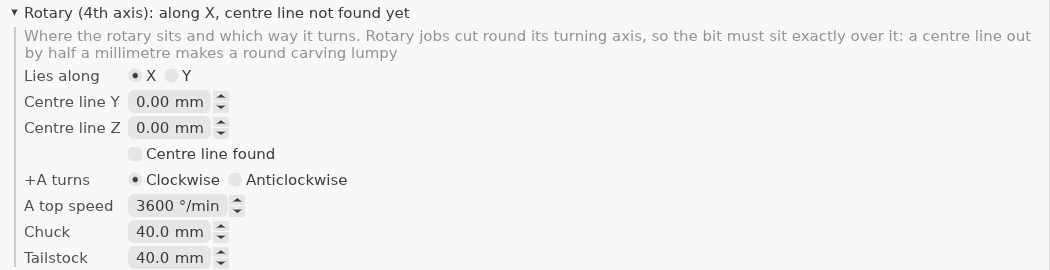
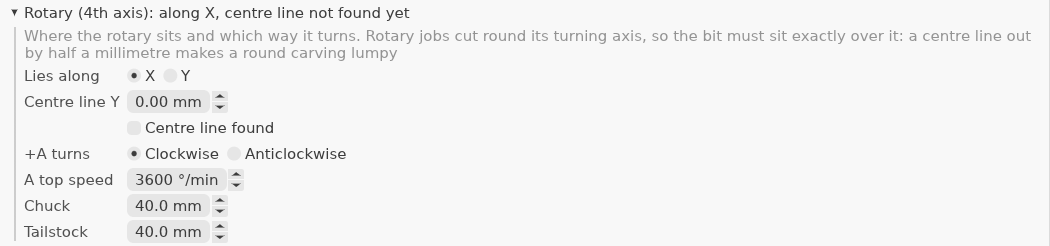
fix: drop Centre line Z (Job Setup's Z zero already says it)
The rotary's centre height comes from where the job zeroes Z (on the axis
or on top of the cylinder), so a second box for it could only disagree.

Claude-Session: https://claude.ai/code/session_01Uqr4BHzmagQu1FgiQuYC1m

diff --git a/crates/machines/src/manager.rs b/crates/machines/src/manager.rs
@@ -612,44 +612,30 @@ fn rotary(ui: &mut egui::Ui, machine: &mut Machine) {
                     });
                     ui.end_row();
                     let across = if axis.along == Along::X { "Y" } else { "X" };
-                    let rows = [
-                        (
-                            format!("Centre line {across}"),
-                            &mut axis.centre_across,
-                            format!(
-                                "From work zero across to the turning axis, in {across}. 0 when \
-                                 you zero {across} on the axis, as is usual"
-                            ),
-                        ),
-                        (
-                            "Centre line Z".to_owned(),
-                            &mut axis.centre_z,
-                            "From work zero up to the turning axis. 0 when you zero Z on the \
-                             axis; minus the radius when you zero Z on top of the cylinder"
-                                .to_owned(),
-                        ),
-                    ];
-                    for (label, value, hint) in rows {
-                        ui.label(label).on_hover_hint(hint);
-                        let mut v = *value / per;
-                        if ui
-                            .add(
-                                Number::new(&mut v)
-                                    .speed(0.01)
-                                    .max_decimals(3)
-                                    .suffix(length),
-                            )
-                            .changed()
-                        {
-                            *value = v * per;
-                        }
-                        ui.end_row();
+                    ui.label(format!("Centre line {across}"))
+                        .on_hover_hint(format!(
+                            "From work zero across to the turning axis, in {across}. 0 when you \
+                         zero {across} on the axis, as is usual. (Its height comes from Job \
+                         Setup: Z zero on the axis or on the cylinder's top)"
+                        ));
+                    let mut v = axis.centre_across / per;
+                    if ui
+                        .add(
+                            Number::new(&mut v)
+                                .speed(0.01)
+                                .max_decimals(3)
+                                .suffix(length),
+                        )
+                        .changed()
+                    {
+                        axis.centre_across = v * per;
                     }
+                    ui.end_row();
                     ui.label("");
                     ui.checkbox(&mut axis.centre_set, "Centre line found")
                         .on_hover_hint(
                             "Tick once you have found the centre line on the machine and set \
-                             the two values above (Help: The 4th Axis and Your Firmware shows \
+                             the value above (Help: The 4th Axis and Your Firmware shows \
                              how). Until then, the checks before cutting ask about it",
                         );
                     ui.end_row();

diff --git a/crates/core/src/rotary_axis.rs b/crates/core/src/rotary_axis.rs
@@ -15,11 +15,9 @@ pub struct RotaryAxis {
     /// offsets below measured; until then the checks before cutting ask about it.
     pub centre_set: bool,
     /// Across the bed from work zero to the turning axis, mm: Y for a rotary along X, X for
-    /// one along Y. 0 when work zero is set on the axis, as is usual.
+    /// one along Y. 0 when work zero is set on the axis, as is usual. (Its height is the
+    /// job's: Job Setup's Z zero, on the axis or on the cylinder's top.)
     pub centre_across: f64,
-    /// Up from work zero to the turning axis, mm: 0 with Z zero on the axis; minus the
-    /// radius with Z zero on the top of the cylinder.
-    pub centre_z: f64,
     /// +A turns clockwise, seen from the chuck end.
     pub clockwise: bool,
     /// The fastest A turns, degrees a minute: for cutting times, and to keep inverse-time
@@ -37,7 +35,6 @@ impl Default for RotaryAxis {
             along: Along::X,
             centre_set: false,
             centre_across: 0.0,
-            centre_z: 0.0,
             clockwise: true,
             max_rate: 3600.0,
             chuck: 40.0,

diff --git a/crates/help/pages/concepts/rotary_firmware.md b/crates/help/pages/concepts/rotary_firmware.md
@@ -50,9 +50,8 @@ Once the 4th axis is ticked, Machine Configuration shows **Rotary (4th axis)**. 
 4. Halfway between the two is the centre line. Jog there and set work zero across the bed
    (Y0) there. Then **Centre line Y** is 0. If you zero somewhere else, type the distance from
    your zero to the centre line instead.
-5. For Z: zero Z on the axis (touch the top of the pin, then go down by half its diameter) and
-   **Centre line Z** is 0. If you zero Z on top of the cylinder instead, type minus its
-   radius.
+5. For Z, zero where Job Setup says: on the axis (touch the top of the pin, then go down by
+   half its diameter) or on the top of the cylinder. Nothing to type here: the job knows which.
 6. Tick **Centre line found**.
 7. Jog A by +10° and watch which way the chuck turns, seen from the chuck end. Set **+A turns**
    to match.
